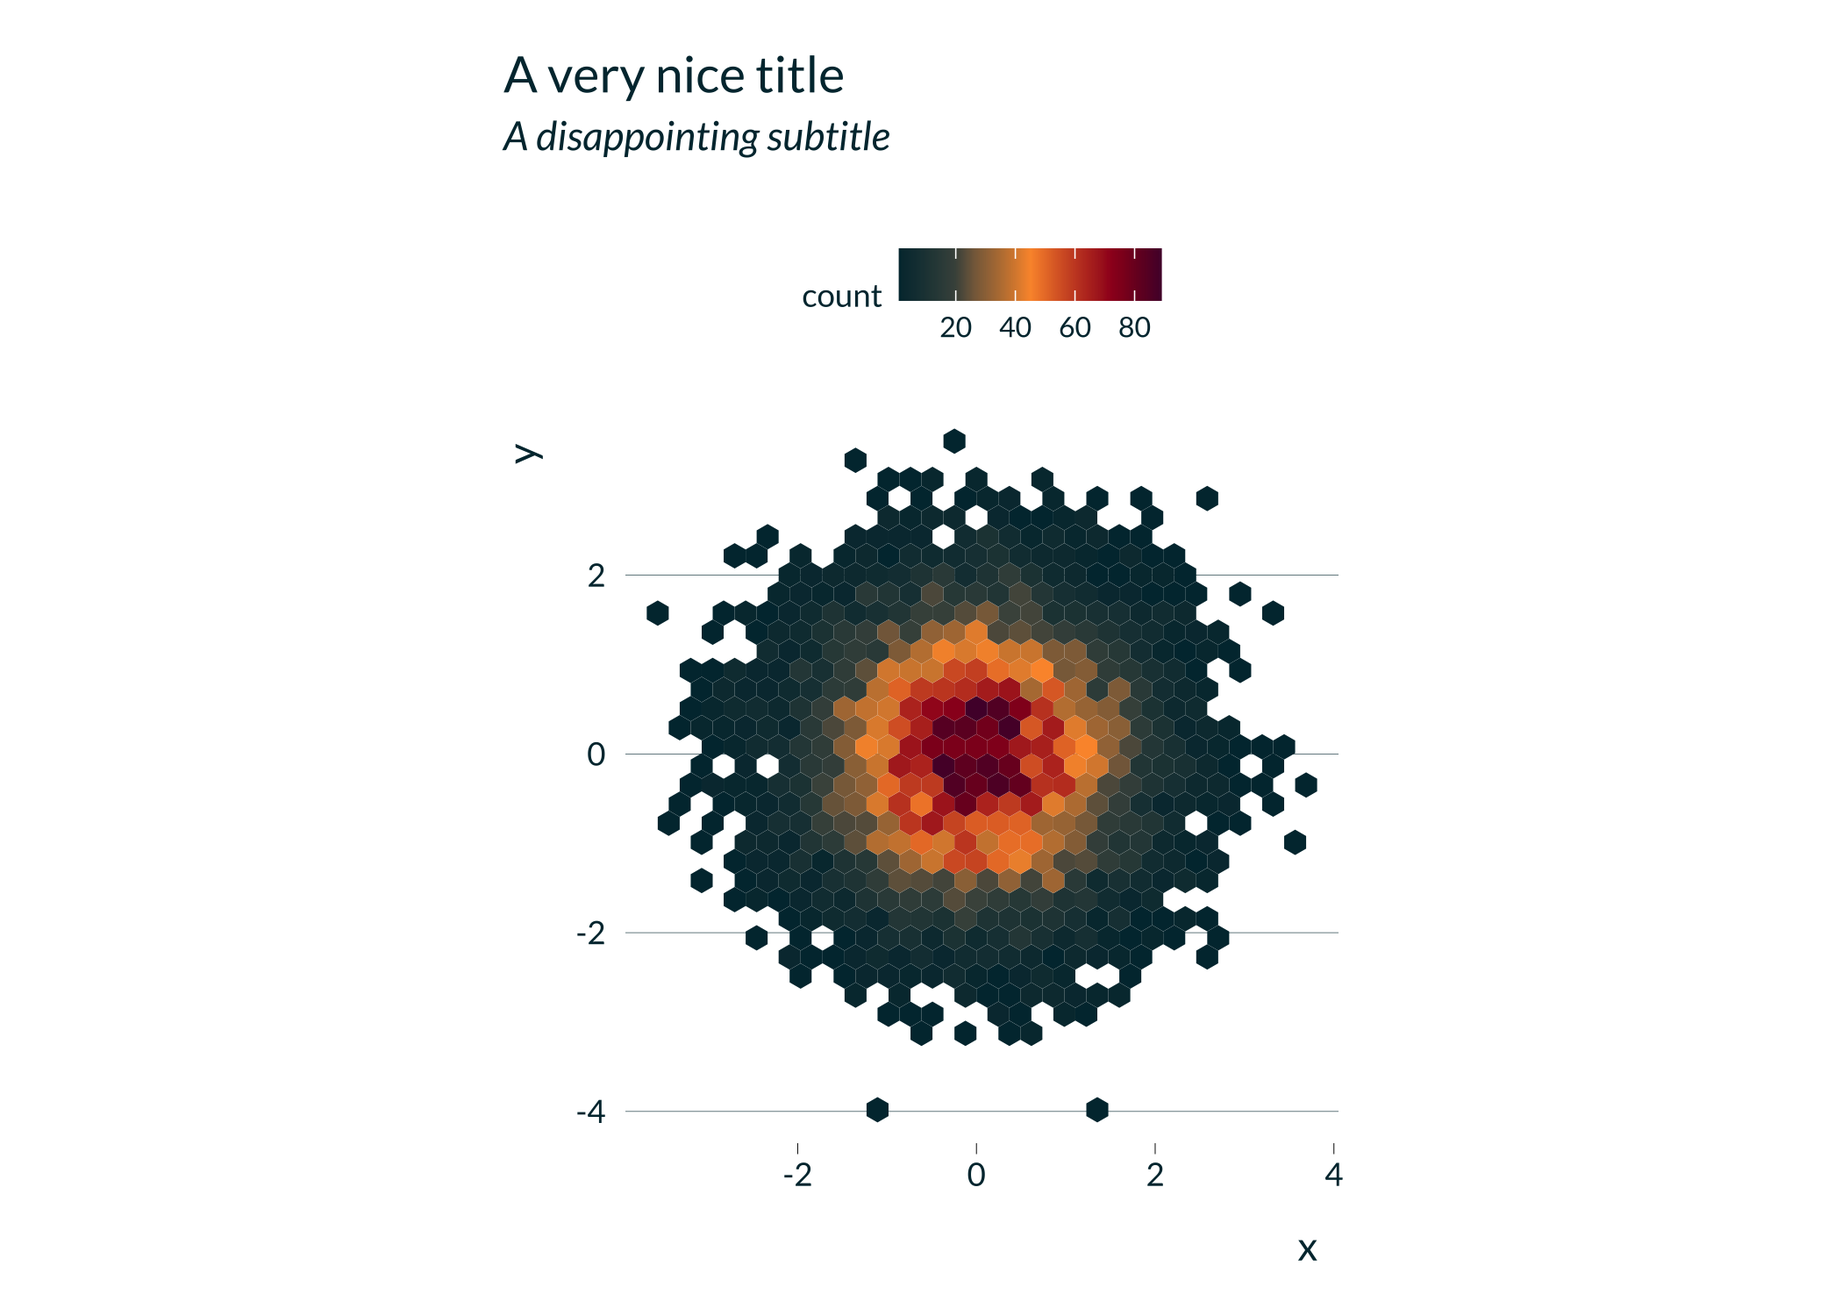
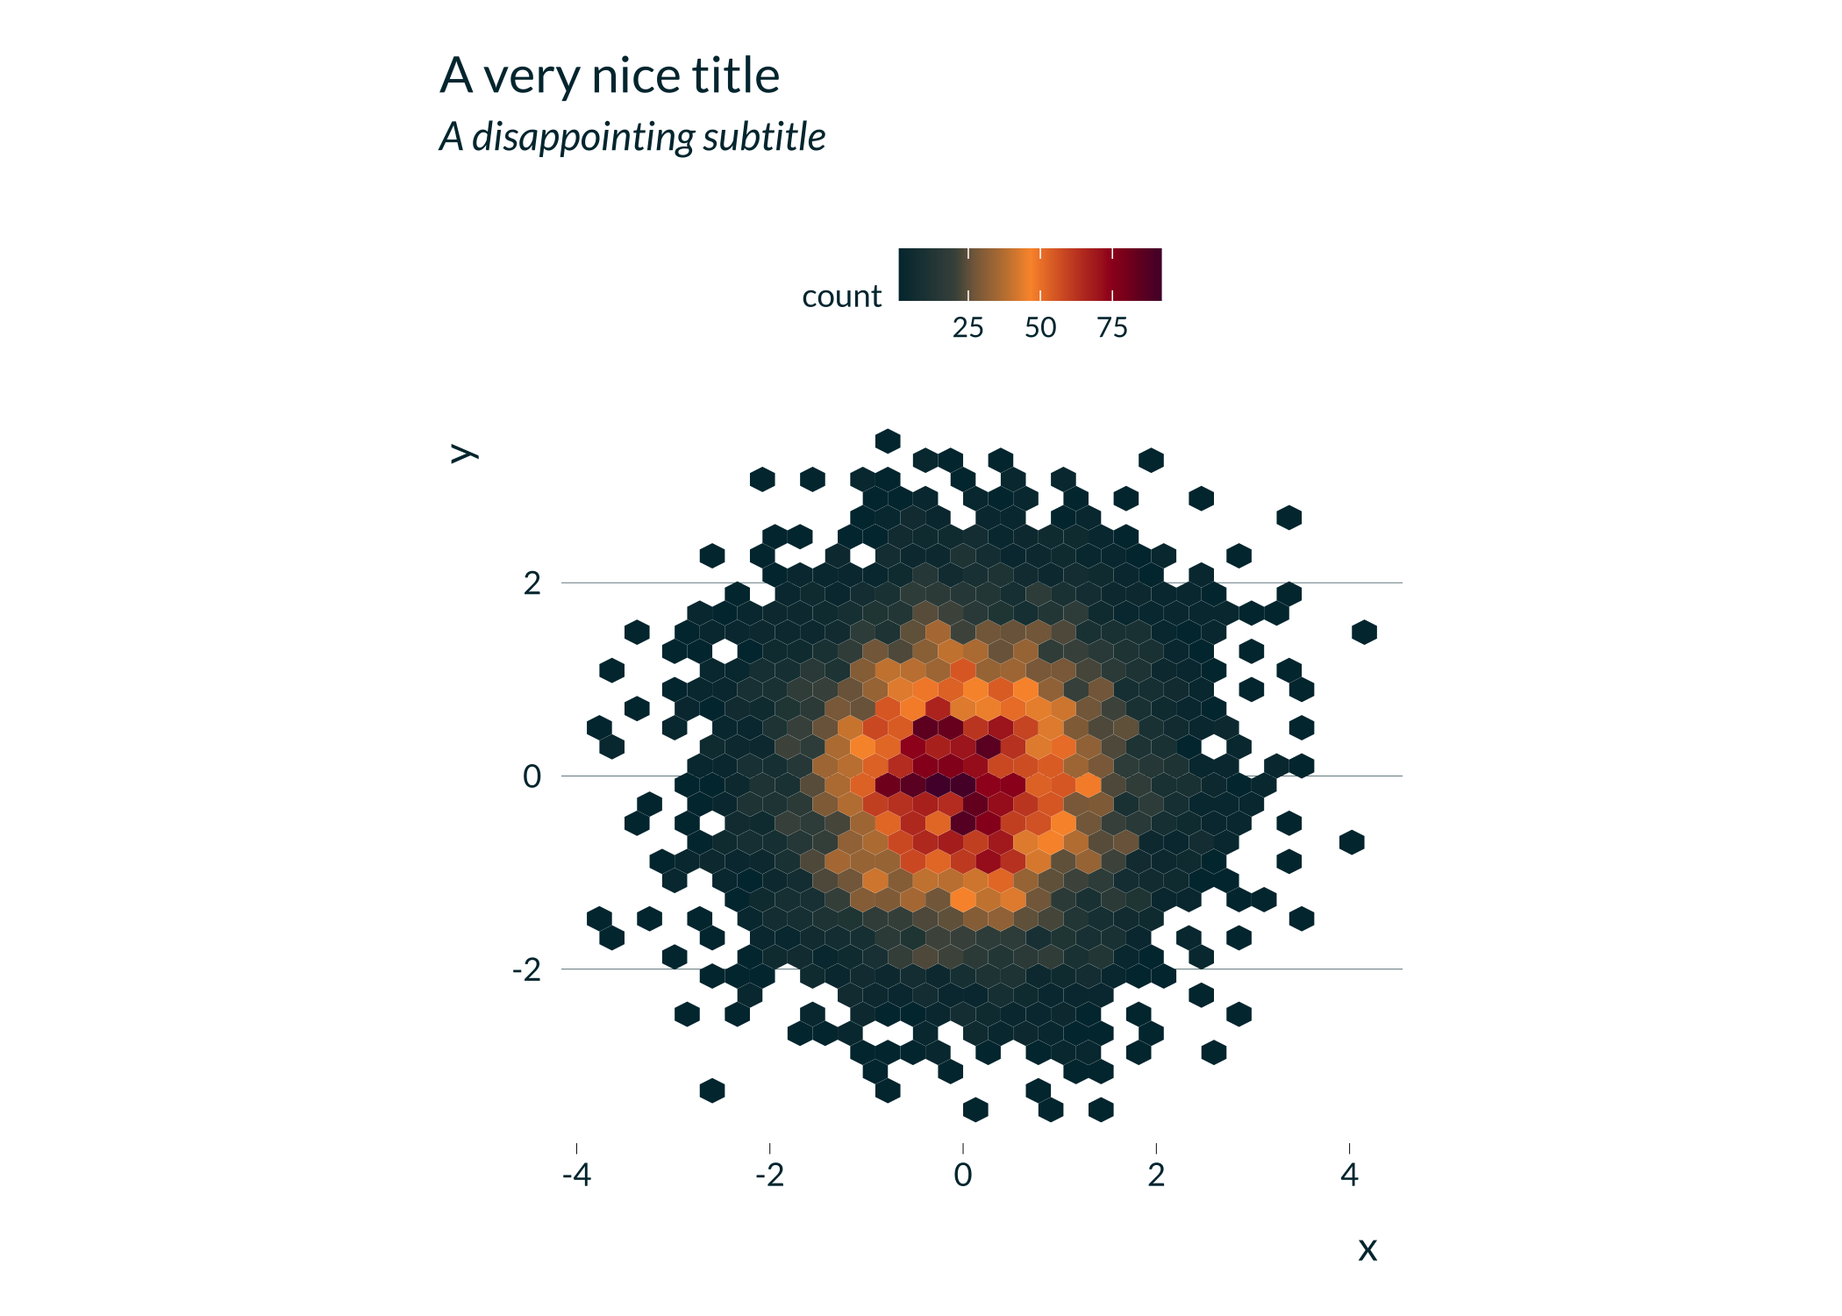
Adding green palette

diff --git a/docs/index.html b/docs/index.html
@@ -105,70 +105,36 @@
 <h3 class="hasAnchor">
 <a href="#general-examples" class="anchor"></a>General examples</h3>
 <p>A couple of example plots obtained with this theme:</p>
-<div class="sourceCode" id="cb4"><pre class="downlit sourceCode r">
-<code class="sourceCode R"><span class="fu"><a href="https://ggplot2.tidyverse.org/reference/ggplot.html">ggplot</a></span><span class="op">(</span>data <span class="op">=</span> <span class="fu">ggplot2</span><span class="fu">::</span><span class="va"><a href="https://ggplot2.tidyverse.org/reference/mpg.html">mpg</a></span>, <span class="fu"><a href="https://ggplot2.tidyverse.org/reference/aes.html">aes</a></span><span class="op">(</span>x <span class="op">=</span> <span class="va">cty</span>, y <span class="op">=</span> <span class="va">displ</span><span class="op">)</span><span class="op">)</span> <span class="op">+</span>
-    <span class="fu"><a href="https://ggplot2.tidyverse.org/reference/geom_bar.html">geom_col</a></span><span class="op">(</span><span class="op">)</span> <span class="op">+</span>
-    <span class="fu"><a href="https://ggplot2.tidyverse.org/reference/labs.html">labs</a></span><span class="op">(</span>title <span class="op">=</span> <span class="st">"A very nice title"</span>, subtitle <span class="op">=</span> <span class="st">"A disappointing subtitle"</span><span class="op">)</span></code></pre></div>
-<p><img src="reference/figures/README-examples-1.png" width="70%" style="display: block; margin: auto;"></p>
-<div class="sourceCode" id="cb5"><pre class="downlit sourceCode r">
-<code class="sourceCode R">
-<span class="fu"><a href="https://ggplot2.tidyverse.org/reference/ggplot.html">ggplot</a></span><span class="op">(</span>data <span class="op">=</span> <span class="fu">ggplot2</span><span class="fu">::</span><span class="va"><a href="https://ggplot2.tidyverse.org/reference/mpg.html">mpg</a></span>, <span class="fu"><a href="https://ggplot2.tidyverse.org/reference/aes.html">aes</a></span><span class="op">(</span>x <span class="op">=</span> <span class="va">drv</span><span class="op">)</span><span class="op">)</span> <span class="op">+</span>
-    <span class="fu"><a href="https://ggplot2.tidyverse.org/reference/geom_bar.html">geom_bar</a></span><span class="op">(</span><span class="fu"><a href="https://ggplot2.tidyverse.org/reference/aes.html">aes</a></span><span class="op">(</span>fill <span class="op">=</span> <span class="fu"><a href="https://rdrr.io/r/base/factor.html">factor</a></span><span class="op">(</span><span class="va">year</span><span class="op">)</span><span class="op">)</span>, position <span class="op">=</span> <span class="st">"dodge"</span>, bins <span class="op">=</span> <span class="fl">10</span><span class="op">)</span> <span class="op">+</span>
-    <span class="fu"><a href="https://ggplot2.tidyverse.org/reference/labs.html">labs</a></span><span class="op">(</span>title <span class="op">=</span> <span class="st">"A very nice title"</span>, subtitle <span class="op">=</span> <span class="st">"A disappointing subtitle"</span><span class="op">)</span>
-<span class="co">#&gt; Warning: Ignoring unknown parameters: bins</span></code></pre></div>
-<p><img src="reference/figures/README-examples-2.png" width="70%" style="display: block; margin: auto;"></p>
-<div class="sourceCode" id="cb6"><pre class="downlit sourceCode r">
-<code class="sourceCode R">
-<span class="fu"><a href="https://ggplot2.tidyverse.org/reference/ggplot.html">ggplot</a></span><span class="op">(</span>data <span class="op">=</span> <span class="fu">ggplot2</span><span class="fu">::</span><span class="va"><a href="https://ggplot2.tidyverse.org/reference/mpg.html">mpg</a></span>, <span class="fu"><a href="https://ggplot2.tidyverse.org/reference/aes.html">aes</a></span><span class="op">(</span>x <span class="op">=</span> <span class="va">cty</span>, y <span class="op">=</span> <span class="va">displ</span>, fill <span class="op">=</span> <span class="va">drv</span><span class="op">)</span><span class="op">)</span> <span class="op">+</span>
-  <span class="fu"><a href="https://ggplot2.tidyverse.org/reference/geom_bar.html">geom_col</a></span><span class="op">(</span><span class="op">)</span> <span class="op">+</span>
-  <span class="fu"><a href="https://ggplot2.tidyverse.org/reference/labs.html">labs</a></span><span class="op">(</span>title <span class="op">=</span> <span class="st">"A very nice title"</span>, subtitle <span class="op">=</span> <span class="st">"A disappointing subtitle"</span><span class="op">)</span></code></pre></div>
-<p><img src="reference/figures/README-examples-3.png" width="70%" style="display: block; margin: auto;"></p>
-<div class="sourceCode" id="cb7"><pre class="downlit sourceCode r">
-<code class="sourceCode R">
-<span class="fu"><a href="https://ggplot2.tidyverse.org/reference/ggplot.html">ggplot</a></span><span class="op">(</span>data <span class="op">=</span> <span class="fu">ggplot2</span><span class="fu">::</span><span class="va"><a href="https://ggplot2.tidyverse.org/reference/mpg.html">mpg</a></span>, <span class="fu"><a href="https://ggplot2.tidyverse.org/reference/aes.html">aes</a></span><span class="op">(</span>x <span class="op">=</span> <span class="va">cty</span>, y <span class="op">=</span> <span class="va">displ</span><span class="op">)</span><span class="op">)</span> <span class="op">+</span>
-  <span class="fu"><a href="https://ggplot2.tidyverse.org/reference/geom_point.html">geom_point</a></span><span class="op">(</span><span class="op">)</span> <span class="op">+</span>
-  <span class="fu"><a href="https://ggplot2.tidyverse.org/reference/geom_smooth.html">geom_smooth</a></span><span class="op">(</span><span class="op">)</span> <span class="op">+</span>
-  <span class="fu"><a href="https://ggplot2.tidyverse.org/reference/labs.html">labs</a></span><span class="op">(</span>title <span class="op">=</span> <span class="st">"A very nice title"</span>, subtitle <span class="op">=</span> <span class="st">"A disappointing subtitle"</span><span class="op">)</span>
-<span class="co">#&gt; `geom_smooth()` using method = 'loess' and formula 'y ~ x'</span></code></pre></div>
-<p><img src="reference/figures/README-examples-4.png" width="70%" style="display: block; margin: auto;"></p>
-<div class="sourceCode" id="cb8"><pre class="downlit sourceCode r">
-<code class="sourceCode R">
-<span class="fu"><a href="https://ggplot2.tidyverse.org/reference/ggplot.html">ggplot</a></span><span class="op">(</span>data <span class="op">=</span> <span class="fu">ggplot2</span><span class="fu">::</span><span class="va"><a href="https://ggplot2.tidyverse.org/reference/mpg.html">mpg</a></span>, <span class="fu"><a href="https://ggplot2.tidyverse.org/reference/aes.html">aes</a></span><span class="op">(</span>x <span class="op">=</span> <span class="va">cty</span><span class="op">)</span><span class="op">)</span> <span class="op">+</span>
-    <span class="fu"><a href="https://ggplot2.tidyverse.org/reference/geom_density.html">geom_density</a></span><span class="op">(</span><span class="op">)</span> <span class="op">+</span>
-    <span class="fu"><a href="https://ggplot2.tidyverse.org/reference/labs.html">labs</a></span><span class="op">(</span>title <span class="op">=</span> <span class="st">"A very nice title"</span>, subtitle <span class="op">=</span> <span class="st">"A disappointing subtitle"</span><span class="op">)</span></code></pre></div>
-<p><img src="reference/figures/README-examples-5.png" width="70%" style="display: block; margin: auto;"></p>
-<div class="sourceCode" id="cb9"><pre class="downlit sourceCode r">
-<code class="sourceCode R">
-<span class="va">df</span> <span class="op">&lt;-</span> <span class="fu"><a href="https://rdrr.io/r/base/data.frame.html">data.frame</a></span><span class="op">(</span>
-  x <span class="op">=</span> <span class="fu"><a href="https://rdrr.io/r/stats/Normal.html">rnorm</a></span><span class="op">(</span><span class="fl">10000</span><span class="op">)</span>,
-  y <span class="op">=</span> <span class="fu"><a href="https://rdrr.io/r/stats/Normal.html">rnorm</a></span><span class="op">(</span><span class="fl">10000</span><span class="op">)</span>
-<span class="op">)</span>
-
-<span class="fu"><a href="https://ggplot2.tidyverse.org/reference/ggplot.html">ggplot</a></span><span class="op">(</span><span class="va">df</span>, <span class="fu"><a href="https://ggplot2.tidyverse.org/reference/aes.html">aes</a></span><span class="op">(</span><span class="va">x</span>, <span class="va">y</span><span class="op">)</span><span class="op">)</span> <span class="op">+</span>
-  <span class="fu"><a href="https://ggplot2.tidyverse.org/reference/geom_hex.html">geom_hex</a></span><span class="op">(</span><span class="op">)</span> <span class="op">+</span>
-  <span class="fu"><a href="https://ggplot2.tidyverse.org/reference/coord_fixed.html">coord_fixed</a></span><span class="op">(</span><span class="op">)</span> <span class="op">+</span>
-  <span class="fu"><a href="https://ggplot2.tidyverse.org/reference/labs.html">labs</a></span><span class="op">(</span>title <span class="op">=</span> <span class="st">"A very nice title"</span>, subtitle <span class="op">=</span> <span class="st">"A disappointing subtitle"</span><span class="op">)</span></code></pre></div>
-<p><img src="reference/figures/README-examples-6.png" width="70%" style="display: block; margin: auto;"></p>
-<div class="sourceCode" id="cb10"><pre class="downlit sourceCode r">
-<code class="sourceCode R">
-<span class="fu"><a href="https://ggplot2.tidyverse.org/reference/ggplot.html">ggplot</a></span><span class="op">(</span>data <span class="op">=</span> <span class="fu">ggplot2</span><span class="fu">::</span><span class="va"><a href="https://ggplot2.tidyverse.org/reference/mpg.html">mpg</a></span>, <span class="fu"><a href="https://ggplot2.tidyverse.org/reference/aes.html">aes</a></span><span class="op">(</span>x <span class="op">=</span> <span class="va">cty</span>, y <span class="op">=</span> <span class="va">displ</span><span class="op">)</span><span class="op">)</span> <span class="op">+</span>
-  <span class="fu"><a href="https://ggplot2.tidyverse.org/reference/geom_point.html">geom_point</a></span><span class="op">(</span><span class="op">)</span> <span class="op">+</span>
-  <span class="fu"><a href="https://ggplot2.tidyverse.org/reference/facet_wrap.html">facet_wrap</a></span><span class="op">(</span><span class="op">~</span> <span class="va">year</span><span class="op">)</span> <span class="op">+</span>
-  <span class="fu"><a href="reference/theme_mediocre.html">theme_mediocre</a></span><span class="op">(</span><span class="op">)</span> <span class="op">+</span>
-  <span class="fu"><a href="https://ggplot2.tidyverse.org/reference/labs.html">labs</a></span><span class="op">(</span>title <span class="op">=</span> <span class="st">"A very nice title"</span>, subtitle <span class="op">=</span> <span class="st">"A disappointing subtitle"</span><span class="op">)</span> </code></pre></div>
-<p><img src="reference/figures/README-examples-7.png" width="70%" style="display: block; margin: auto;"></p>
+<p><img src="reference/figures/README-examples-1.png" width="70%" style="display: block; margin: auto;"><img src="reference/figures/README-examples-2.png" width="70%" style="display: block; margin: auto;"><img src="reference/figures/README-examples-3.png" width="70%" style="display: block; margin: auto;"></p>
+<div class="sourceCode" id="cb4"><pre class="sourceCode R"><code class="sourceCode r"><span id="cb4-1"><a href="#cb4-1"></a><span class="co">#&gt; `geom_smooth()` using method = 'loess' and formula 'y ~ x'</span></span></code></pre></div>
+<p><img src="reference/figures/README-examples-4.png" width="70%" style="display: block; margin: auto;"><img src="reference/figures/README-examples-5.png" width="70%" style="display: block; margin: auto;"><img src="reference/figures/README-examples-6.png" width="70%" style="display: block; margin: auto;"><img src="reference/figures/README-examples-7.png" width="70%" style="display: block; margin: auto;"></p>
 </div>
 <div id="setting-a-background" class="section level3">
 <h3 class="hasAnchor">
 <a href="#setting-a-background" class="anchor"></a>Setting a background</h3>
 <p>You can also easily set a background for all their plots by setting the parameter <code>background</code> of the functions <code>theme_mediocre</code> or <code>set_mediocre_all</code> to <code>TRUE</code>. The color of the background is predefined to fit nicely the theme palette. One can of course still modify the background color by adding a layer to the ggplot theme: <code><a href="https://ggplot2.tidyverse.org/reference/theme.html">theme(plot.background = element_rect(fill = "red"))</a></code>.</p>
-<div class="sourceCode" id="cb11"><pre class="downlit sourceCode r">
+<div class="sourceCode" id="cb5"><pre class="downlit sourceCode r">
 <code class="sourceCode R"><span class="fu"><a href="reference/set_mediocre_all.html">set_mediocre_all</a></span><span class="op">(</span>background <span class="op">=</span> <span class="cn">TRUE</span><span class="op">)</span>
 
 <span class="fu"><a href="https://ggplot2.tidyverse.org/reference/ggplot.html">ggplot</a></span><span class="op">(</span>data <span class="op">=</span> <span class="fu">ggplot2</span><span class="fu">::</span><span class="va"><a href="https://ggplot2.tidyverse.org/reference/mpg.html">mpg</a></span>, <span class="fu"><a href="https://ggplot2.tidyverse.org/reference/aes.html">aes</a></span><span class="op">(</span>x <span class="op">=</span> <span class="va">cty</span>, y <span class="op">=</span> <span class="va">displ</span><span class="op">)</span><span class="op">)</span> <span class="op">+</span>
     <span class="fu"><a href="https://ggplot2.tidyverse.org/reference/geom_point.html">geom_point</a></span><span class="op">(</span><span class="op">)</span> <span class="op">+</span>
     <span class="fu"><a href="https://ggplot2.tidyverse.org/reference/labs.html">labs</a></span><span class="op">(</span>title <span class="op">=</span> <span class="st">"A very nice title"</span>, subtitle <span class="op">=</span> <span class="st">"A disappointing subtitle"</span><span class="op">)</span></code></pre></div>
 <p><img src="reference/figures/README-background-1.png" width="70%" style="display: block; margin: auto;"></p>
+</div>
+<div id="additional-palettes" class="section level3">
+<h3 class="hasAnchor">
+<a href="#additional-palettes" class="anchor"></a>Additional palettes</h3>
+<p>Notes that additional palettes are available.</p>
+<div id="rainbow" class="section level4">
+<h4 class="hasAnchor">
+<a href="#rainbow" class="anchor"></a>Rainbow</h4>
+<p><img src="reference/figures/README-rainbow-1.png" width="70%" style="display: block; margin: auto;"><img src="reference/figures/README-rainbow-2.png" width="70%" style="display: block; margin: auto;"><img src="reference/figures/README-rainbow-3.png" width="70%" style="display: block; margin: auto;"><img src="reference/figures/README-rainbow-4.png" width="70%" style="display: block; margin: auto;"><img src="reference/figures/README-rainbow-5.png" width="70%" style="display: block; margin: auto;"></p>
+</div>
+<div id="green" class="section level4">
+<h4 class="hasAnchor">
+<a href="#green" class="anchor"></a>Green</h4>
+<p><img src="reference/figures/README-green-1.png" width="70%" style="display: block; margin: auto;"><img src="reference/figures/README-green-2.png" width="70%" style="display: block; margin: auto;"><img src="reference/figures/README-green-3.png" width="70%" style="display: block; margin: auto;"><img src="reference/figures/README-green-4.png" width="70%" style="display: block; margin: auto;"><img src="reference/figures/README-green-5.png" width="70%" style="display: block; margin: auto;"></p>
+</div>
 </div>
 </div>
 </div>

diff --git a/docs/reference/palette_mediocre_d.html b/docs/reference/palette_mediocre_d.html
@@ -170,8 +170,8 @@ labels and so forth.</p></td>
 #&gt;     ggplot2::discrete_scale(..., aesthetics = c("fill", "color"), 
 #&gt;         scale_name = "disc_scale", palette = mediocre_pal)
 #&gt; }
-#&gt; &lt;bytecode: 0x7f9094995510&gt;
-#&gt; &lt;environment: 0x7f9094a3cf08&gt;</div><div class='input'>
+#&gt; &lt;bytecode: 0x7fa107fbd8f8&gt;
+#&gt; &lt;environment: 0x7fa107fbe2e0&gt;</div><div class='input'>
 <span class='fu'><a href='palette_mediocre_c.html'>palette_mediocre_c</a></span><span class='op'>(</span>pal <span class='op'>=</span> <span class='st'>"rainbow"</span><span class='op'>)</span>
 </div><div class='output co'>#&gt; function (...) 
 #&gt; {
@@ -183,8 +183,8 @@ labels and so forth.</p></td>
 #&gt;     ggplot2::scale_fill_gradientn(..., colors = mediocre_color_vector, 
 #&gt;         aesthetics = c("fill", "color"))
 #&gt; }
-#&gt; &lt;bytecode: 0x7f9094939a88&gt;
-#&gt; &lt;environment: 0x7f909492f530&gt;</div><div class='input'>
+#&gt; &lt;bytecode: 0x7fa10f087c10&gt;
+#&gt; &lt;environment: 0x7fa10f086dd8&gt;</div><div class='input'>
 </div></pre>
   </div>
   <div class="col-md-3 hidden-xs hidden-sm" id="pkgdown-sidebar">

diff --git a/README.md b/README.md
@@ -61,11 +61,7 @@ ggplot(data = ggplot2::mpg, aes(x = cty, y = displ, fill = manufacturer)) +
 
 A couple of example plots obtained with this theme:
 
-<img src="man/figures/README-examples-1.png" width="70%" style="display: block; margin: auto;" />
-
-    #> Warning: Ignoring unknown parameters: bins
-
-<img src="man/figures/README-examples-2.png" width="70%" style="display: block; margin: auto;" /><img src="man/figures/README-examples-3.png" width="70%" style="display: block; margin: auto;" />
+<img src="man/figures/README-examples-1.png" width="70%" style="display: block; margin: auto;" /><img src="man/figures/README-examples-2.png" width="70%" style="display: block; margin: auto;" /><img src="man/figures/README-examples-3.png" width="70%" style="display: block; margin: auto;" />
 
     #> `geom_smooth()` using method = 'loess' and formula 'y ~ x'
 
@@ -92,15 +88,12 @@ ggplot(data = ggplot2::mpg, aes(x = cty, y = displ)) +
 
 ### Additional palettes
 
-Notes that additional palettes are available, such as the `rainbow`
-palette.
+Notes that additional palettes are available.
 
-### General examples
+#### Rainbow
 
-A couple of example plots obtained with this theme:
+<img src="man/figures/README-rainbow-1.png" width="70%" style="display: block; margin: auto;" /><img src="man/figures/README-rainbow-2.png" width="70%" style="display: block; margin: auto;" /><img src="man/figures/README-rainbow-3.png" width="70%" style="display: block; margin: auto;" /><img src="man/figures/README-rainbow-4.png" width="70%" style="display: block; margin: auto;" /><img src="man/figures/README-rainbow-5.png" width="70%" style="display: block; margin: auto;" />
 
-<img src="man/figures/README-rainbow-1.png" width="70%" style="display: block; margin: auto;" /><img src="man/figures/README-rainbow-2.png" width="70%" style="display: block; margin: auto;" />
+#### Green
 
-    #> Warning: Ignoring unknown parameters: bins
-
-<img src="man/figures/README-rainbow-3.png" width="70%" style="display: block; margin: auto;" /><img src="man/figures/README-rainbow-4.png" width="70%" style="display: block; margin: auto;" /><img src="man/figures/README-rainbow-5.png" width="70%" style="display: block; margin: auto;" />
+<img src="man/figures/README-green-1.png" width="70%" style="display: block; margin: auto;" /><img src="man/figures/README-green-2.png" width="70%" style="display: block; margin: auto;" /><img src="man/figures/README-green-3.png" width="70%" style="display: block; margin: auto;" /><img src="man/figures/README-green-4.png" width="70%" style="display: block; margin: auto;" /><img src="man/figures/README-green-5.png" width="70%" style="display: block; margin: auto;" />
